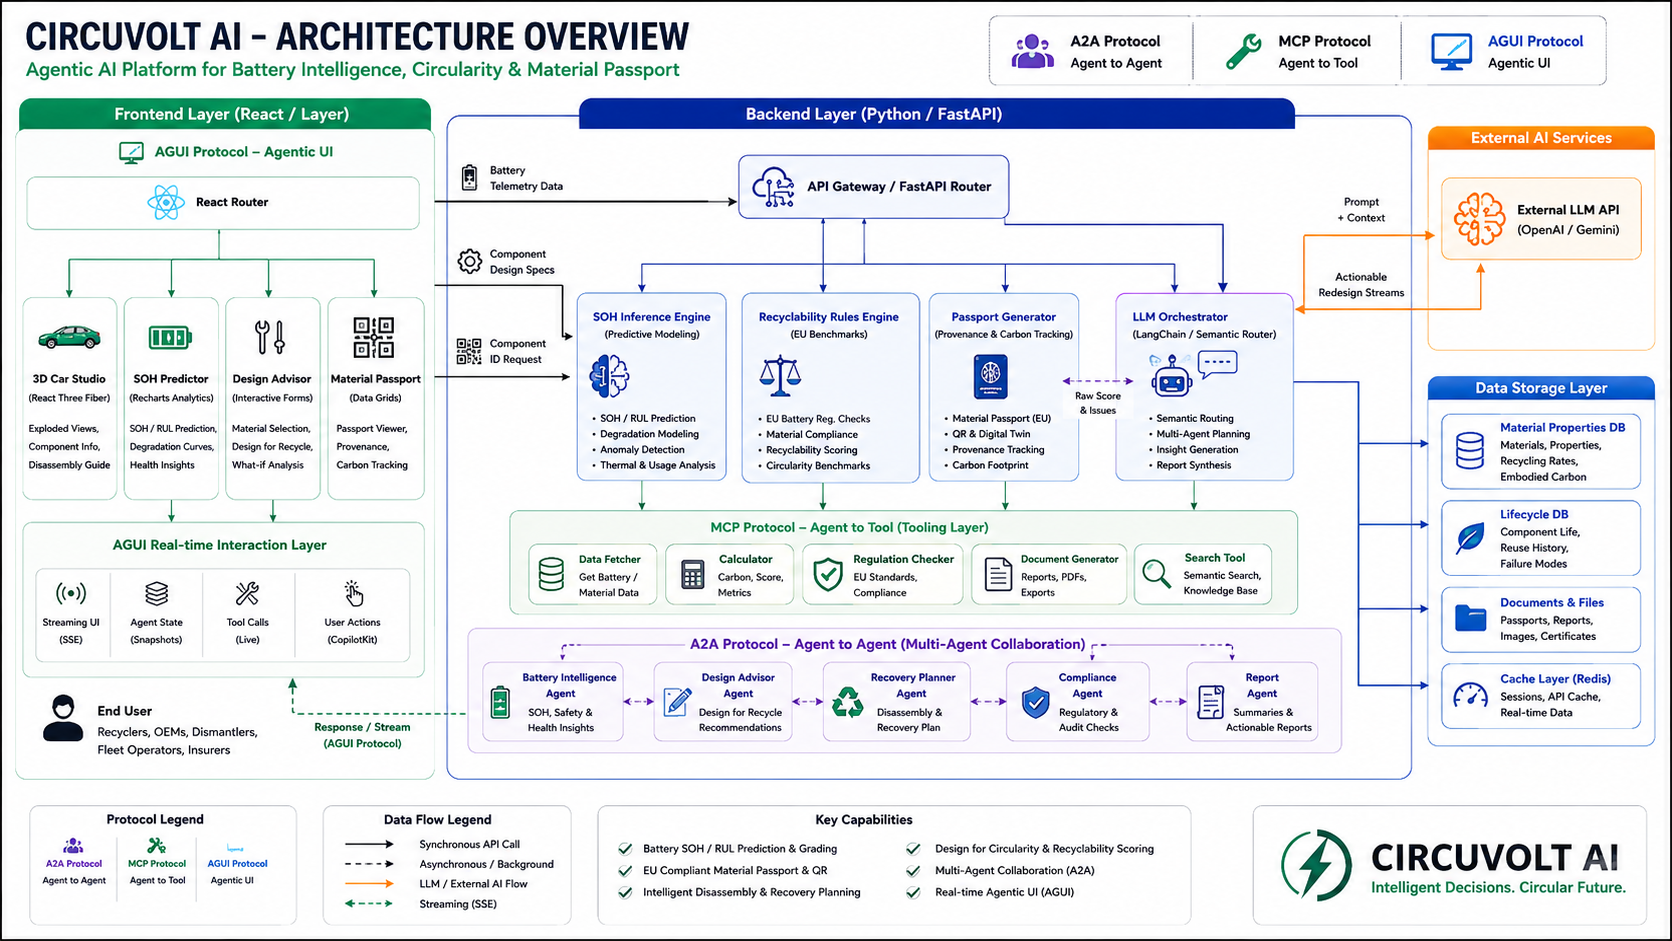
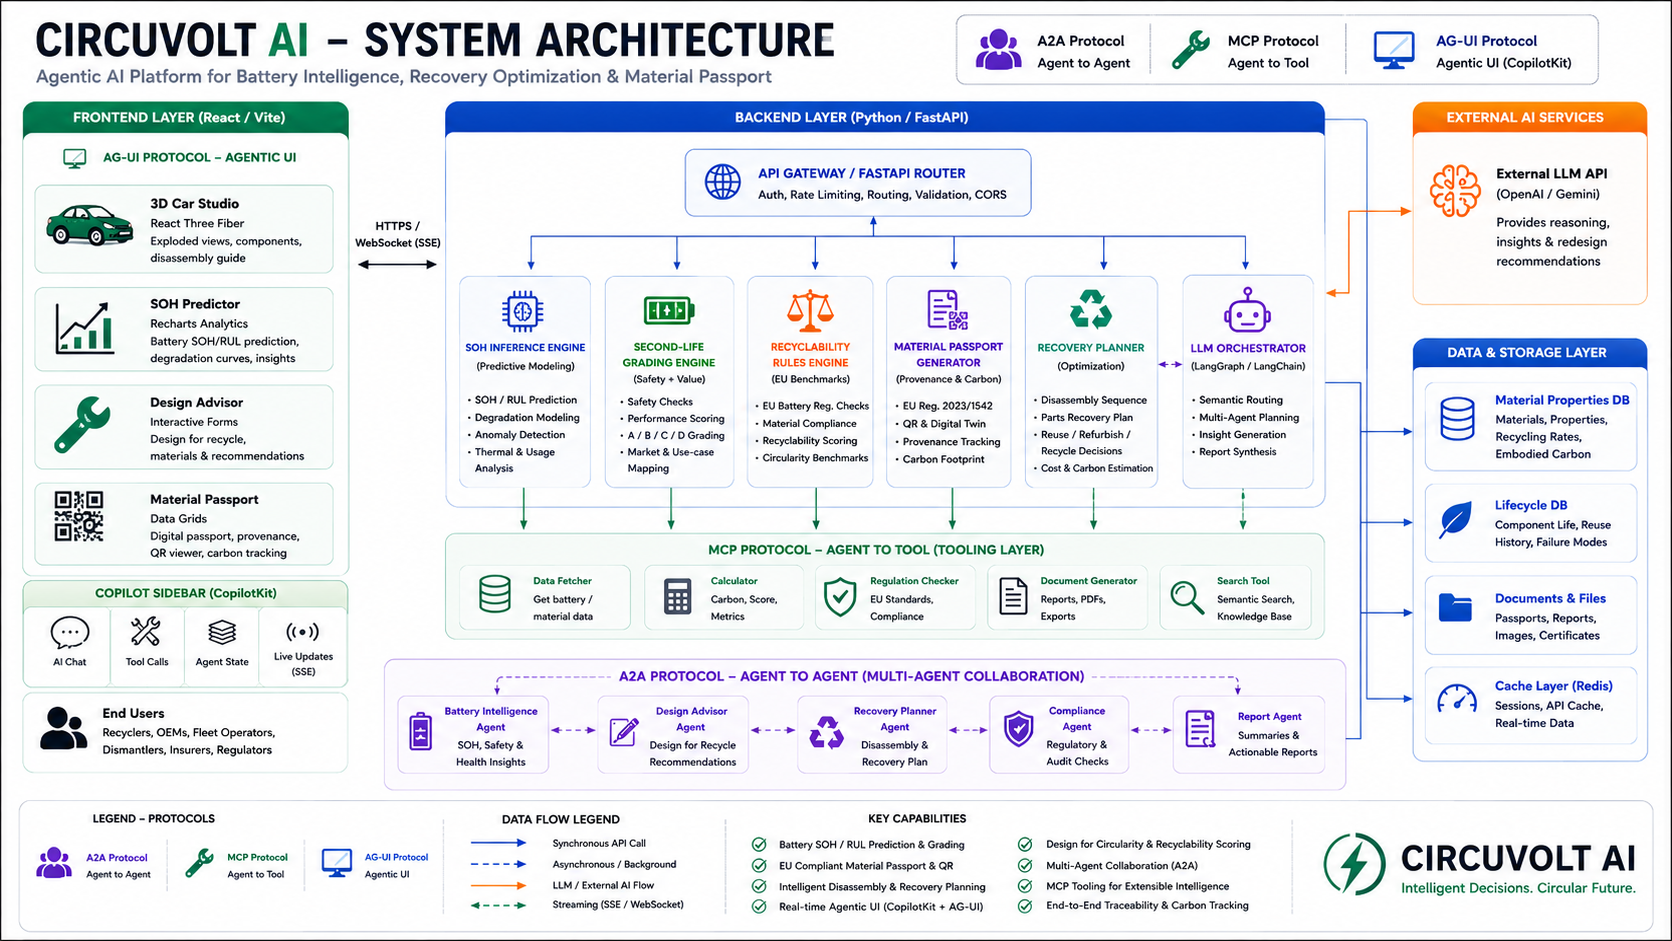
:wrench: update the Readme

Changed region(s): [[0.0, 0.0, 1.0, 1.0], [0.2488, 0.5547, 0.2799, 0.5855]]

diff --git a/README.md b/README.md
@@ -84,7 +84,9 @@ CopilotKit implements AG-UI natively and provides:
 5. **Circularity Scoring** : Multi-factor score (0-100)
 6. **Design Recyclability** : Improvement suggestions with scoring
 7. **AI Copilot** : Open-ended conversational interface via CopilotKit
-8. **Agent Interoperability** : A2A protocol for agent-to-agent communication
+8. **Dynamic Agent Builder** : Create custom agents through the UI with Auto-Verification for external MCP servers and A2A endpoints.
+9. **Multi-Agent Interoperability** : Native A2A protocol support where each custom agent publishes its own `/.well-known/agent.json` and proxies tasks to specialized sub-agents.
+10. **Interactive Vehicle Studio** : Interactive 3D component exploration and advanced, fully dynamic vehicle-to-vehicle circularity comparisons.
 
 ---
 
